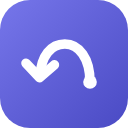
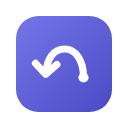
Prepare for the Chrome Web Store
Version 1.0.0, a padded 128px store icon, a zip packaging script, store
screenshots and promo tiles, a privacy policy and the listing text.

diff --git a/tests/media/store.spec.ts b/tests/media/store.spec.ts
@@ -1,0 +1,91 @@
+/**
+ * Chrome Web Store listing images, written to docs/store. Run with `npm run store-assets`.
+ * Screenshots are 1280x800 and promo tiles 440x280 / 1400x560, all saved without an alpha channel.
+ */
+import { chromium, test, type Page } from '@playwright/test';
+import { mkdirSync, readFileSync, writeFileSync } from 'node:fs';
+import path from 'node:path';
+import { fileURLToPath } from 'node:url';
+import { PNG } from 'pngjs';
+import { chatUrl, launch, ui } from '../e2e/harness';
+import { CHATS } from '../fixtures/sites';
+
+const here = path.dirname(fileURLToPath(import.meta.url));
+const out = path.resolve(here, '../../docs/store');
+mkdirSync(out, { recursive: true });
+const kyoto = CHATS.kyoto!.turns;
+const sleep = (ms: number) => new Promise((resolve) => setTimeout(resolve, ms));
+
+async function save(page: Page, name: string) {
+  const png = PNG.sync.read(await page.screenshot({ type: 'png' }));
+  writeFileSync(path.join(out, name), PNG.sync.write(png, { colorType: 2 }));
+}
+
+test('screenshots', async () => {
+  const context = await launch({ viewport: { width: 1280, height: 800 }, deviceScaleFactor: 1 });
+  const page = await context.newPage();
+  await page.goto(chatUrl('chatgpt'));
+  const { fab, item, input } = ui(page);
+
+  // 1. The list, part-way through a long chat.
+  await fab.click();
+  await item(kyoto[3]!.q).click();
+  await sleep(1800);
+  await fab.click();
+  await item(kyoto[4]!.q).hover();
+  await sleep(300);
+  await save(page, 'screenshot-1-list.png');
+
+  // 2. Search.
+  await input.fill('book');
+  await sleep(300);
+  await save(page, 'screenshot-2-search.png');
+
+  // 3. Just landed on a question (highlight still visible).
+  await page.keyboard.press('Enter');
+  await sleep(650);
+  await save(page, 'screenshot-3-hop.png');
+
+  // 4. Dark theme.
+  await sleep(1500);
+  await page.evaluate(() => window.__setDark(true));
+  await fab.click();
+  await item(kyoto[6]!.q).hover();
+  await sleep(300);
+  await save(page, 'screenshot-4-dark.png');
+  await page.keyboard.press('Escape');
+
+  // 5. Another chat, its own list.
+  await page.evaluate(() => window.__setDark(false));
+  await page.locator('aside a', { hasText: 'Sourdough' }).click();
+  await fab.click();
+  await sleep(300);
+  await save(page, 'screenshot-5-other-chat.png');
+  await context.close();
+});
+
+test('promo tiles', async () => {
+  const icon = readFileSync(path.resolve(here, '../../icons/icon.svg'), 'utf8');
+  const browser = await chromium.launch();
+  for (const [name, width, height, scale] of [
+    ['promo-small-440x280.png', 440, 280, 1],
+    ['promo-marquee-1400x560.png', 1400, 560, 2.2],
+  ] as const) {
+    const page = await browser.newPage({ viewport: { width, height } });
+    await page.setContent(`
+      <style>
+        * { margin: 0; box-sizing: border-box; }
+        body { width: ${width}px; height: ${height}px; display: grid; place-items: center;
+          background: radial-gradient(120% 140% at 15% 0%, #f4f4ff 0%, #e6e6fb 45%, #d5d5f6 100%);
+          font-family: ui-sans-serif, system-ui, -apple-system, 'Segoe UI', sans-serif; color: #1d1d22; }
+        .wrap { display: flex; align-items: center; gap: ${22 * scale}px; }
+        svg { width: ${84 * scale}px; height: ${84 * scale}px; border-radius: ${20 * scale}px; box-shadow: 0 ${8 * scale}px ${24 * scale}px rgba(74, 74, 196, .35); }
+        h1 { font-size: ${40 * scale}px; font-weight: 700; letter-spacing: -0.03em; line-height: 1; }
+        p { margin-top: ${10 * scale}px; font-size: ${15.5 * scale}px; line-height: 1.35; color: #4b4b5a; max-width: ${250 * scale}px; }
+      </style>
+      <div class="wrap">${icon}<div><h1>HopBack</h1><p>Jump back to any question you asked in an AI chat.</p></div></div>`);
+    await save(page, name);
+    await page.close();
+  }
+  await browser.close();
+});

diff --git a/docs/store/listing.md b/docs/store/listing.md
@@ -1,0 +1,119 @@
+# Chrome Web Store listing
+
+Everything to paste into the [Developer Dashboard](https://chrome.google.com/webstore/devconsole). Upload `release/hopback-<version>.zip` (made by `npm run zip`), then fill in the three tabs below.
+
+## Store listing tab
+
+**Name** (comes from the manifest)
+
+    HopBack: Jump to Your Questions in AI Chats
+
+**Summary** (comes from the manifest, 131 of 132 characters)
+
+    Hop back to any question you asked in ChatGPT, Claude, Gemini, Perplexity, DeepSeek, Grok and Copilot. No data leaves your browser.
+
+**Description**
+
+    Long AI answers bury your questions. HopBack brings them back.
+
+    You ask something, the AI writes four screens. You ask a follow-up, it writes five more. Ten questions in, finding "that thing I asked earlier" means dragging the scrollbar and squinting.
+
+    HopBack adds one small button to the side of the chat. Click it to see every question you asked in that conversation, then click a question to go straight to it.
+
+    WHAT IT DOES
+
+    • Lists every question you asked in the current chat, in order
+    • Takes you to any question with one click and briefly highlights it so your eye lands in the right place
+    • Lets you search your questions as you type
+    • Shows which question you are currently reading
+    • Works for old chats too, including ones from before you installed it
+    • Follows you when you switch to another chat
+    • Matches the light or dark look of the site you are on
+    • Stays out of the way: drag the button up or down and it remembers
+
+    KEYBOARD SHORTCUTS
+
+    • Alt + J (Option + J on Mac): open or close the list
+    • Arrow keys and Enter: pick a question
+    • Alt + Shift + Up / Down: go to the previous or next question without opening the list
+
+    WORKS WITH
+
+    ChatGPT, Claude, Gemini, Perplexity, DeepSeek, Grok and Microsoft Copilot.
+
+    PRIVATE BY DESIGN
+
+    • No data is collected, stored or sent anywhere
+    • No account, no sign-up, no tracking
+    • Your questions are read from the page only to show you the list, and are never saved
+    • Free and open source: https://github.com/sidDarthVader31/hopback
+
+    These sites change often. If the button stops appearing on one of them, please report it at https://github.com/sidDarthVader31/hopback/issues and it will be fixed.
+
+    HopBack is an independent project. It is not affiliated with or endorsed by OpenAI, Anthropic, Google, Perplexity, DeepSeek, xAI or Microsoft.
+
+**Category:** Tools (under Productivity)
+
+**Language:** English
+
+**Graphic assets** (all in this folder)
+
+| Slot | File |
+| --- | --- |
+| Store icon, 128×128 | `icons/icon-128.png` (also inside the zip) |
+| Screenshots, 1280×800 | `screenshot-1-list.png` to `screenshot-5-other-chat.png`, in that order |
+| Small promo tile, 440×280 | `promo-small-440x280.png` |
+| Marquee promo tile, 1400×560 | `promo-marquee-1400x560.png` |
+
+**Additional fields**
+
+- Homepage URL: `https://github.com/sidDarthVader31/hopback`
+- Support URL: `https://github.com/sidDarthVader31/hopback/issues`
+- Mature content: No
+
+## Privacy practices tab
+
+**Single purpose**
+
+    HopBack helps you navigate long AI chat conversations: it lists the questions you asked in the current chat and scrolls the page to the one you select.
+
+**Permission justification: storage**
+
+    Used only to remember the vertical position of the HopBack button after the user drags it, so it stays where they put it. No other data is stored.
+
+**Permission justification: host permissions** (the sites in `content_scripts.matches`)
+
+    HopBack runs only on the listed AI chat sites. On those pages it needs to find the messages the user sent, in order to list them, and to add its button and question list to the page. It does not run on or access any other site, and makes no network requests.
+
+**Are you using remote code?**
+
+    No, I am not using remote code.
+
+**Data usage**
+
+- What user data do you collect: leave every box unchecked. HopBack reads the user's own questions from the page to display them back to the user, but does not collect, store or transmit them.
+- Certify all three statements:
+  - I do not sell or transfer user data to third parties, outside of the approved use cases
+  - I do not use or transfer user data for purposes that are unrelated to my item's single purpose
+  - I do not use or transfer user data to determine creditworthiness or for lending purposes
+
+**Privacy policy URL**
+
+    https://github.com/sidDarthVader31/hopback/blob/main/PRIVACY.md
+
+## Distribution tab
+
+- Payments: Free of charge
+- Visibility: Public
+- Regions: All regions
+
+## Test instructions (for the reviewer)
+
+    No account is needed. Open https://chatgpt.com, send two or three messages, and a round HopBack button appears on the right edge of the page showing the number of questions. Click it to see the list, click a question to scroll to it. Alt+J also opens the list. The button is hidden on pages with no conversation.
+
+## Before each release
+
+1. Bump `version` in `manifest.json` and `package.json`.
+2. `npm run check`
+3. `npm run zip`
+4. Upload the new zip in the dashboard's Package tab and submit for review.

diff --git a/PRIVACY.md b/PRIVACY.md
@@ -1,0 +1,49 @@
+# HopBack Privacy Policy
+
+_Last updated: 13 November 2026_
+
+HopBack is a browser extension that lists the questions you asked in an AI chat and scrolls to the one you pick. This policy explains what it does with your information. The short version: it doesn't collect any.
+
+## What HopBack collects
+
+Nothing. HopBack has no servers, no accounts and no analytics. It makes no network requests of any kind.
+
+## What HopBack reads
+
+To build the list of your questions, HopBack reads the text of the messages you sent, as they are shown on the chat page you have open. That text:
+
+- stays inside the page, in your browser's memory
+- is never saved to disk
+- is never sent anywhere
+- is discarded when you leave or close the page
+
+HopBack does not read the AI's answers, your account details, your chat history list, or anything on any other website.
+
+## What HopBack stores
+
+One number: the vertical position of the HopBack button, if you drag it. It is saved in your browser's local extension storage so the button stays where you put it. It never leaves your device and is deleted when you remove the extension.
+
+## Where HopBack runs
+
+Only on these sites: chatgpt.com, chat.openai.com, claude.ai, gemini.google.com, www.perplexity.ai, chat.deepseek.com, grok.com, copilot.com and copilot.microsoft.com. It does nothing on any other site.
+
+## Sharing and selling
+
+HopBack has no data to share or sell, and does neither.
+
+## Permissions
+
+- **storage**: to remember the button position described above.
+- **Access to the sites listed above**: to find your questions on the page and show the HopBack button there.
+
+## Open source
+
+HopBack's full source code is public at <https://github.com/sidDarthVader31/hopback>, so anyone can verify this policy against what the extension actually does.
+
+## Changes
+
+If this policy changes, the new version will be published at this address with a new date. Any change that affects how data is handled will also be noted in the extension's release notes.
+
+## Contact
+
+Questions about this policy: open an issue at <https://github.com/sidDarthVader31/hopback/issues>.

diff --git a/README.md b/README.md
@@ -137,7 +137,7 @@ On a Mac, <kbd>Alt</kbd> is <kbd>Option</kbd>.
 
 ## Privacy
 
-HopBack collects nothing, stores nothing about your chats, and makes no network requests.
+The full policy is in [PRIVACY.md](PRIVACY.md). In short: HopBack collects nothing, stores nothing about your chats, and makes no network requests.
 
 - Your questions are read from the page when you look at the list and are never saved or sent anywhere.
 - The only thing kept is where you dragged the button to (one number, in your browser's local extension storage).
@@ -168,6 +168,8 @@ npm test            # unit tests (Vitest + happy-dom)
 npm run e2e         # browser tests: real Chromium with the built extension loaded
 npm run check       # typecheck, lint, unit and browser tests
 npm run media       # regenerate README screenshots and GIFs
+npm run store-assets  # regenerate Chrome Web Store screenshots and promo images
+npm run zip         # build and package release/hopback-<version>.zip for the Web Store
 ```
 
 The browser tests serve stand-in pages at the real hostnames, so the manifest's match patterns and the content script are exercised exactly as shipped, with no accounts or network needed.
